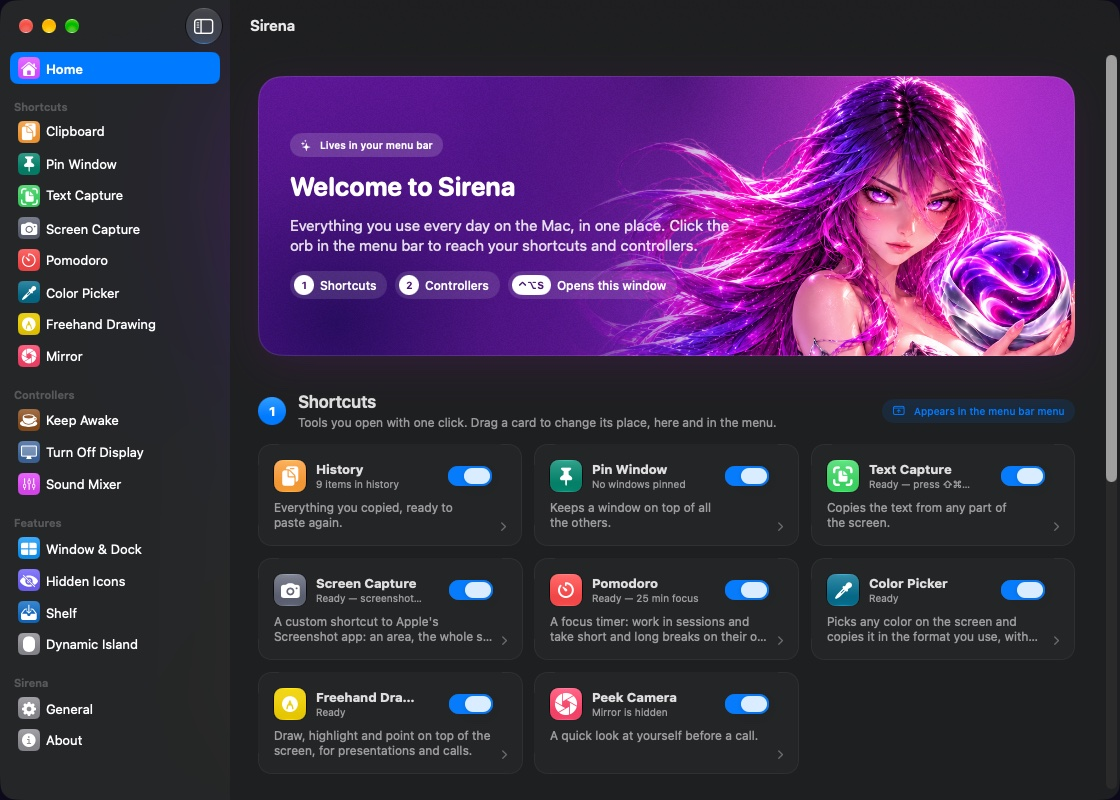
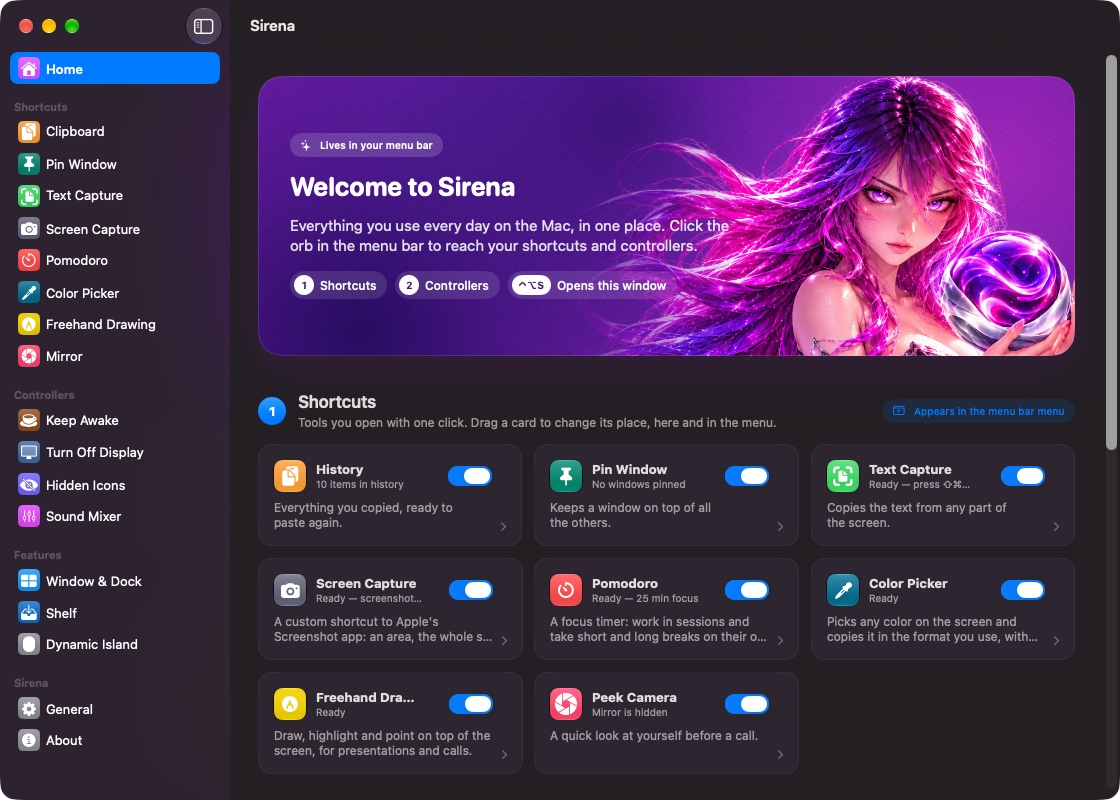
Sirena 0.6.4: appcast and download, new menu and Home shots, a few new lines
- Appcast item and download link for 0.6.4.
- The menu (and its three inline panels) in its new look, with "Ícones do menu"; Home
  with Ícones under Controladores. Alt texts, sizes and cache keys follow.
- New lines: Ícones do menu among the controllers, snap layouts in Janela e Dock, the
  Finder's address bar (⌘L) in Melhorias; the counts on top (6 controllers, 3 features).

diff --git a/sirena/index.html b/sirena/index.html
@@ -66,15 +66,15 @@
     <p class="req"><span data-version="sirena" data-no-i18n></span> macOS 15 Sequoia ou mais novo · Apple Silicon e Intel · Gratuito</p>
 
     <div class="wu-stage">
-      <figure class="wu-main"><button class="shot" type="button"><img src="../assets/shots/sirena/home.jpg?v=202610271200" alt="Janela do Sirena no Início: boas-vindas, atalhos e controladores em cartões, com a barra lateral de recursos" width="1120" height="800"></button></figure>
-      <figure class="wu-float wu-float-compact"><button class="shot" type="button"><img src="../assets/shots/sirena/panel.jpg?v=202610271200" alt="Menu do Sirena na barra de menus, com os atalhos, os controladores e os recursos" width="370" height="445"></button></figure>
-      <figure class="wu-float wu-float-tray"><button class="shot" type="button"><img src="../assets/shots/sirena/panel-history.jpg?v=202610271200" alt="Menu do Sirena com as últimas cópias do histórico abertas" width="370" height="712"></button></figure>
+      <figure class="wu-main"><button class="shot" type="button"><img src="../assets/shots/sirena/home.jpg?v=202611141200" alt="Janela do Sirena no Início: boas-vindas, atalhos e controladores em cartões, com a barra lateral de recursos" width="1120" height="800"></button></figure>
+      <figure class="wu-float wu-float-compact"><button class="shot" type="button"><img src="../assets/shots/sirena/panel.jpg?v=202611141200" alt="Menu do Sirena na barra de menus, com os atalhos e os controladores" width="370" height="486"></button></figure>
+      <figure class="wu-float wu-float-tray"><button class="shot" type="button"><img src="../assets/shots/sirena/panel-history.jpg?v=202611141200" alt="Menu do Sirena com as últimas cópias do histórico abertas" width="370" height="905"></button></figure>
     </div>
 
     <div class="wu-stats">
       <div><b>8</b><span>atalhos a um clique</span></div>
-      <div><b>3</b><span>controladores</span></div>
-      <div><b>4</b><span>recursos em segundo plano</span></div>
+      <div><b>6</b><span>controladores</span></div>
+      <div><b>3</b><span>recursos em segundo plano</span></div>
       <div><b>1</b><span>ícone na barra de menus</span></div>
     </div>
   </section>
@@ -87,10 +87,10 @@
       <p>O ícone do Sirena abre um menu com os atalhos em cima e os controladores embaixo. Alguns atalhos se abrem ali mesmo: as últimas cópias, o timer de foco e os modos de captura de tela.</p>
     </div>
     <div class="wu-panels">
-      <figure><button class="shot" type="button"><img src="../assets/shots/sirena/panel.jpg?v=202610271200" alt="Menu do Sirena com atalhos, Manter Tela Ligada, Desligar Tela e os recursos" loading="lazy" width="370" height="445"></button><figcaption>Atalhos e controladores</figcaption></figure>
-      <figure><button class="shot" type="button"><img src="../assets/shots/sirena/panel-history.jpg?v=202610271200" alt="Últimas cópias do histórico dentro do menu" loading="lazy" width="370" height="712"></button><figcaption>Últimas cópias</figcaption></figure>
-      <figure><button class="shot" type="button"><img src="../assets/shots/sirena/panel-focus.jpg?v=202610271200" alt="Timer de foco dentro do menu, com 15, 25, 45 e 60 minutos" loading="lazy" width="370" height="614"></button><figcaption>Foco</figcaption></figure>
-      <figure><button class="shot" type="button"><img src="../assets/shots/sirena/panel-capture.jpg?v=202610271200" alt="Modos de captura de tela dentro do menu: área, tela, gravar área e gravar tela" loading="lazy" width="370" height="547"></button><figcaption>Captura de tela</figcaption></figure>
+      <figure><button class="shot" type="button"><img src="../assets/shots/sirena/panel.jpg?v=202611141200" alt="Menu do Sirena com atalhos, Manter Tela Ligada, Desligar Tela e Ícones do menu" loading="lazy" width="370" height="486"></button><figcaption>Atalhos e controladores</figcaption></figure>
+      <figure><button class="shot" type="button"><img src="../assets/shots/sirena/panel-history.jpg?v=202611141200" alt="Últimas cópias do histórico dentro do menu" loading="lazy" width="370" height="905"></button><figcaption>Últimas cópias</figcaption></figure>
+      <figure><button class="shot" type="button"><img src="../assets/shots/sirena/panel-focus.jpg?v=202611141200" alt="Timer de foco dentro do menu, com 15, 25, 45 e 60 minutos" loading="lazy" width="370" height="655"></button><figcaption>Foco</figcaption></figure>
+      <figure><button class="shot" type="button"><img src="../assets/shots/sirena/panel-capture.jpg?v=202611141200" alt="Modos de captura de tela dentro do menu: área, tela, gravar área e gravar tela" loading="lazy" width="370" height="588"></button><figcaption>Captura de tela</figcaption></figure>
     </div>
     <p class="wu-cap">No Início, escolha o que aparece no menu e arraste os cartões para mudar a ordem. ⌃⌥S abre a janela de qualquer app.</p>
   </section>
@@ -135,6 +135,7 @@
           <li><b>Manter tela ligada</b> pelo tempo que você escolher ou sem limite, como o Caffeine.</li>
           <li><b>Desligar tela</b> com um clique, depois de uma contagem que dá para cancelar.</li>
           <li><b>Mixer de som</b>: o volume do Mac e de cada app, para onde cada um toca e o microfone.</li>
+          <li><b>Ícones do menu</b>: esconda os ícones de outros apps na barra de menus e traga de volta ali mesmo; o orbe mostra quantos estão ocultos.</li>
         </ul>
       </div>
       <div class="wu-media wu-pair">
@@ -150,6 +151,7 @@
       <p class="wu-kicker">Janela e Dock</p>
       <h2>Janelas no lugar, ⌘ Tab com prévias.</h2>
       <p>Organize janelas com atalhos ou arrastando até as bordas da tela, troque entre elas com um ⌘ Tab que mostra cada janela ao vivo e veja as prévias ao passar o mouse no Dock.</p>
+      <p>Arraste uma janela até o topo da tela e escolha um layout: o Snap Assist preenche o resto com as outras janelas abertas, e uma alça discreta entre elas redimensiona as duas juntas.</p>
     </div>
     <div class="wu-tabset">
       <div class="wu-tabs" role="tablist" aria-label="Janela e Dock">
@@ -193,6 +195,7 @@
         <p>Esconda os ícones da barra de menus que você não usa e mostre de volta com um clique. No Finder, pequenas melhorias que faltavam.</p>
         <ul class="wu-list">
           <li><b>Ícones ocultos</b> com a técnica do Hidden Bar no macOS 15 e o recurso nativo no macOS 27.</li>
+          <li><b>Barra de endereço no Finder</b>: ⌘L mostra o caminho da pasta para editar ou colar outro, como no Windows, e Return leva a janela até lá.</li>
           <li><b>Liquid Glass</b> no macOS 26 ou mais novo; materiais translúcidos clássicos no 15.</li>
         </ul>
       </div>

diff --git a/sirena/strings.js b/sirena/strings.js
@@ -93,6 +93,13 @@ window.WITCH_STRINGS = Object.freeze({
   "Liquid Glass": ["Liquid Glass", "Liquid Glass", "Liquid Glass"],
   "no macOS 26 ou mais novo; materiais translúcidos clássicos no 15.": ["on macOS 26 or later; the classic translucent materials on 15.", "en macOS 26 o posterior; los materiales translúcidos clásicos en 15.", "в macOS 26 и новее; в macOS 15 — классические полупрозрачные материалы."],
   "Boas-vindas do Sirena no Início, com a arte do app": ["Sirena's welcome on Home, with the app's artwork", "La bienvenida de Sirena en Inicio, con el arte de la app", "Приветствие Sirena на экране «Главная» с графикой приложения"],
+  "Menu do Sirena na barra de menus, com os atalhos e os controladores": ["Sirena's menu bar menu, with the shortcuts and the controllers", "El menú de Sirena en la barra de menús, con los atajos y los controladores", "Меню Sirena в строке меню: быстрые действия и переключатели"],
+  "Menu do Sirena com atalhos, Manter Tela Ligada, Desligar Tela e Ícones do menu": ["Sirena's menu with shortcuts, Keep Display On, Turn Off Display and Menu bar icons", "El menú de Sirena con atajos, Mantener pantalla encendida, Apagar pantalla e Iconos del menú", "Меню Sirena: быстрые действия, «Не выключать экран», «Выключить экран» и «Значки меню»"],
+  "Ícones do menu": ["Menu bar icons", "Iconos del menú", "Значки меню"],
+  ": esconda os ícones de outros apps na barra de menus e traga de volta ali mesmo; o orbe mostra quantos estão ocultos.": [": hide other apps' menu bar icons and bring them back right there; the orb shows how many are hidden.", ": oculta los iconos de otras apps en la barra de menús y recupéralos ahí mismo; el orbe muestra cuántos están ocultos.", ": скрывайте значки других программ в строке меню и возвращайте их прямо там; сфера показывает, сколько скрыто."],
+  "Arraste uma janela até o topo da tela e escolha um layout: o Snap Assist preenche o resto com as outras janelas abertas, e uma alça discreta entre elas redimensiona as duas juntas.": ["Drag a window to the top of the screen and pick a layout: Snap Assist fills the rest with your other open windows, and a discreet grip between them resizes both together.", "Arrastra una ventana hasta la parte superior de la pantalla y elige una disposición: Snap Assist llena el resto con las demás ventanas abiertas, y un asa discreta entre ellas cambia el tamaño de las dos a la vez.", "Перетащите окно к верхнему краю экрана и выберите раскладку: Snap Assist заполнит остальное другими открытыми окнами, а незаметная ручка между ними меняет размер обоих сразу."],
+  "Barra de endereço no Finder": ["An address bar in the Finder", "Barra de direcciones en el Finder", "Адресная строка в Finder"],
+  ": ⌘L mostra o caminho da pasta para editar ou colar outro, como no Windows, e Return leva a janela até lá.": [": ⌘L shows the folder's path to edit or paste another, as in Windows, and Return takes the window there.", ": ⌘L muestra la ruta de la carpeta para editarla o pegar otra, como en Windows, y Return lleva la ventana hasta allí.", ": ⌘L показывает путь к папке, чтобы изменить его или вставить другой, как в Windows, а Return переводит окно туда."],
   "E mais um pouco": ["And a little more", "Y un poco más", "И ещё немного"],
   "Só o que você usa": ["Only what you use", "Solo lo que usas", "Только то, чем вы пользуетесь"],
   "Cada recurso liga e desliga no Início. O que está desligado não roda.": ["Each feature turns on and off on Home. What's off doesn't run.", "Cada función se activa y desactiva en Inicio. Lo que está apagado no se ejecuta.", "Каждая функция включается и выключается на экране «Главная». Выключенное не работает."],

diff --git a/apps.js b/apps.js
@@ -10,7 +10,7 @@ window.WITCH_APPS = Object.freeze({
   hyperimage:   Object.freeze({ repo: 'hyperimage-converter', tag: 'v1.0.2', file: 'HyperImage-1.0.2.dmg', published: true, app: 'HyperImage Converter.app' }),
   hypervideo:   Object.freeze({ repo: 'hypervideo-converter', tag: 'v1.0.1', file: 'HyperVideo-1.0.1.dmg', published: true, app: 'HyperVideo Converter.app' }),
   neorar:       Object.freeze({ repo: 'Neorar',        tag: 'v1.1.3',        file: 'Neorar-1.1.3.dmg',       published: true, app: 'Neorar.app' }),
-  sirena:       Object.freeze({ repo: 'Sirena',        tag: 'v0.6.3',        file: 'Sirena-0.6.3.dmg',       published: true, app: 'Sirena.app' }),
+  sirena:       Object.freeze({ repo: 'Sirena',        tag: 'v0.6.4',        file: 'Sirena-0.6.4.dmg',       published: true, app: 'Sirena.app' }),
   rubbishnotes: Object.freeze({ repo: 'rubbish-notes', tag: 'v1.2.1',        file: 'RubbishNotes-1.2.1.dmg', published: true, app: 'Rubbish Notes.app' }),
   wineup:       Object.freeze({ repo: 'wineup-player', tag: 'v1.1.1',      file: 'WineupPlayer-1.1.1.dmg', published: true, app: 'Wineup Player.app' }),
   santovideoplayer: Object.freeze({ repo: 'santo-video-player', tag: 'v2.0.2', file: 'SantoVideoPlayer-2.0.2.dmg', published: true, app: 'Santo Video Player.app' }),
